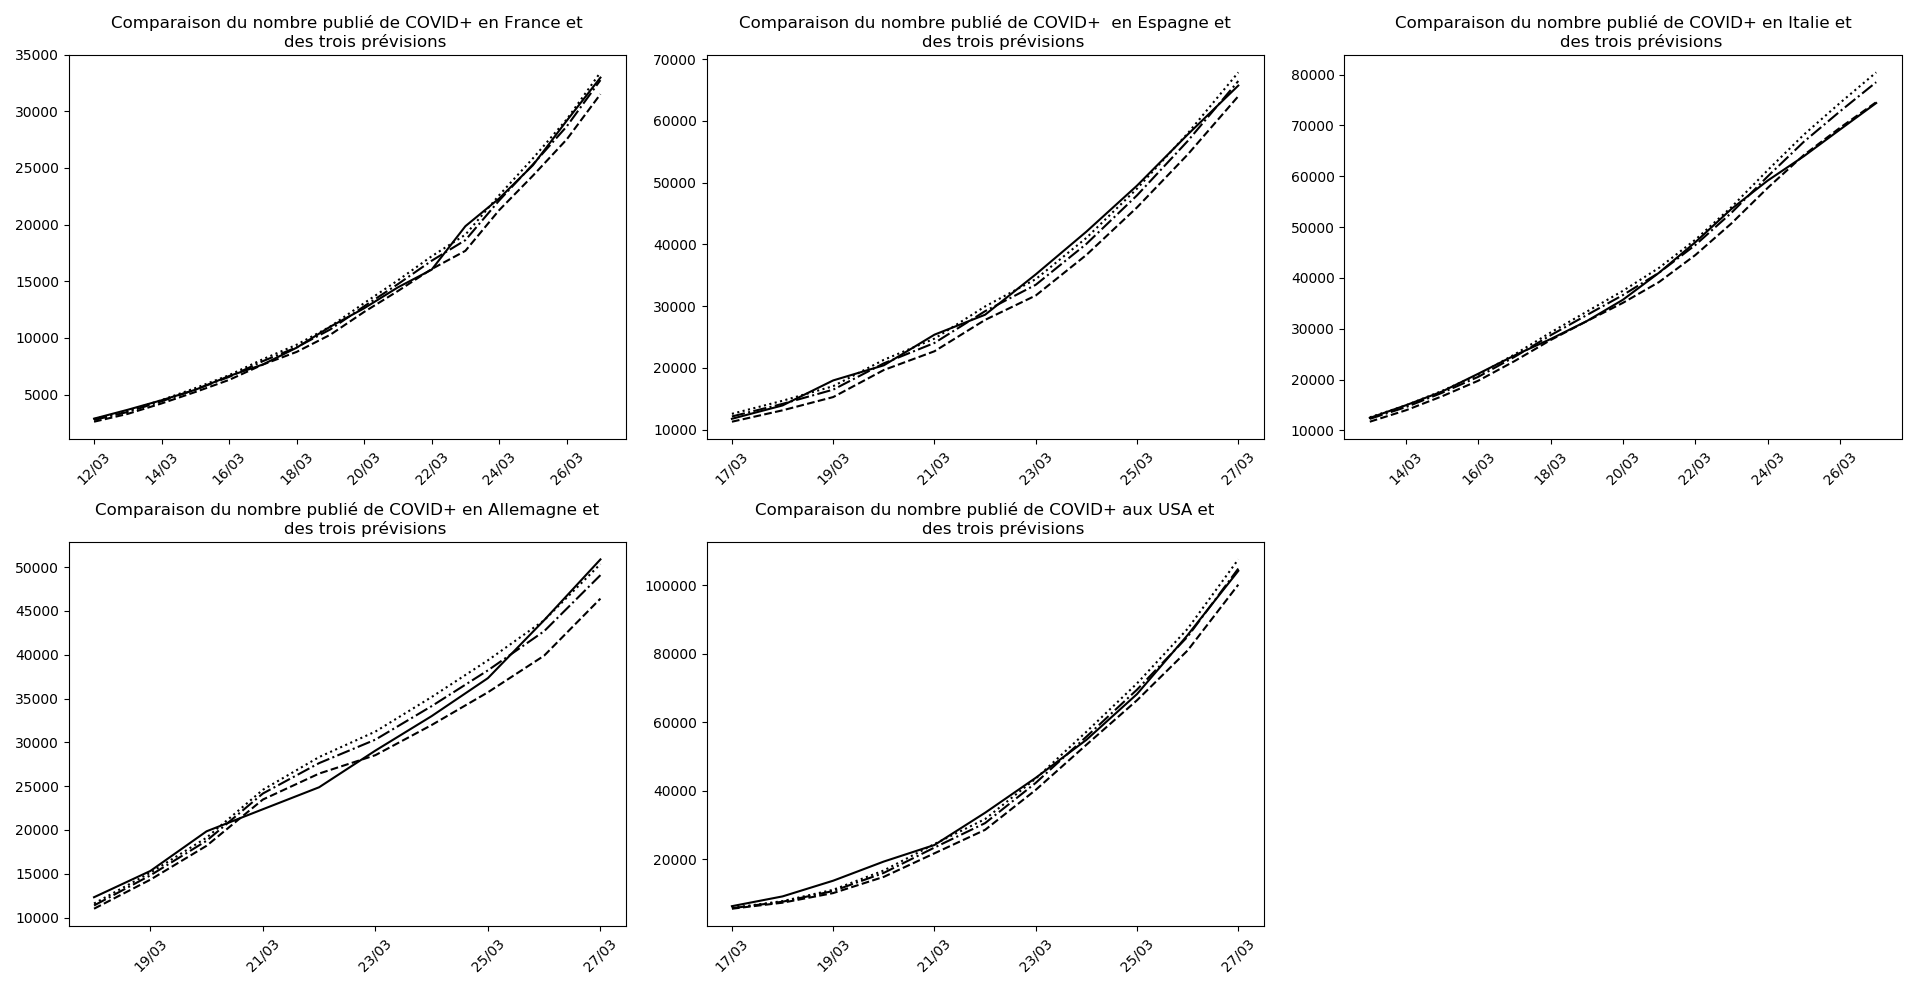
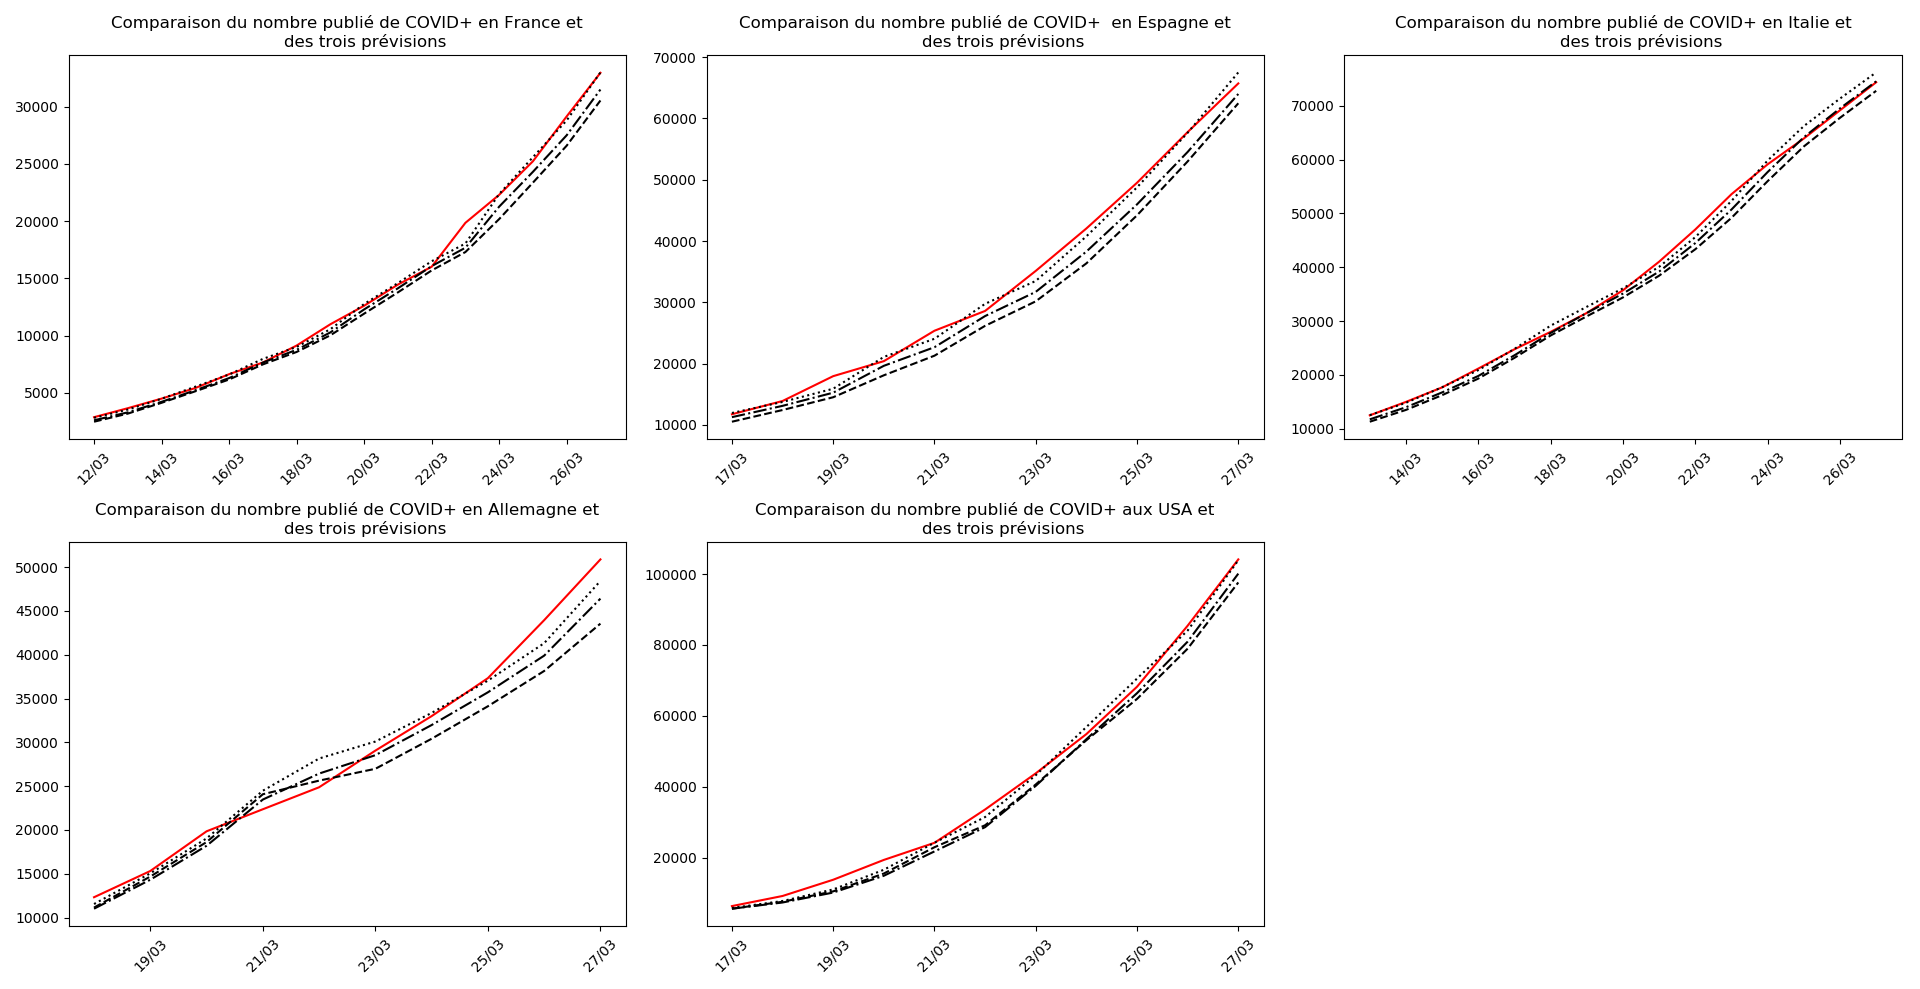
CoViD-19

diff --git a/_posts/2020-03-28-covid19.md b/_posts/2020-03-28-covid19.md
@@ -81,7 +81,7 @@ Le principe de l'algorithme est alors le suivant :
 - on pose $c_0=2\times\max\left(Y_i\right)_{1\leq i\leq n}$;
 - connaissant $c_0$, on calcule $a_0$ et $b_0$ en utilisant $(E_2)$ et $(E_3)$;
 - grâce aux valeurs de $a_0$ et $b_0$, on calcule $c_1$ en utilisant $(E_1)$;
-- on continue ainsi jusqu'à ce que $c_{j+1}-c_j$ soit, en valeur absolue, inférieur à une précision voulue;
+- on continue ainsi jusqu'à ce que $c_{j+1}-c_j$ soit inférieur à une précision voulue;
 - les valeurs $\left(a_{j+1};b_{j+1};c_{j+1}\right)$ sont alors les valeurs souhaitées.
 
 # Algorithme
@@ -155,7 +155,7 @@ def interpSigm2(data, fin, Inf=None, Sup=None,
     aM,bM,cM = tab[-1][:3]
     return ((am,bm,cm),(a,b,c),(aM,bM,cM))
 
-def interpSigm(data, fin, S0=0, mxS=1e6, err=1.5, prec=1e-3):
+def interpSigm(data, fin, S0=0, mxS=1e6, err=1.5, prec=1e-3,method = 1):
     """Calcule les paramètres (a,b,c) de la sigmoïde ainsi que les versions
     optimiste : (am,bm,cm)
     pessimiste : (aM,bM,cM)"""
@@ -179,10 +179,21 @@ def interpSigm(data, fin, S0=0, mxS=1e6, err=1.5, prec=1e-3):
     else:
         Y0 = np.log(somcum/(c-somcum))
         a,b = reglin(X,Y0,(somcum*(1-somcum/c))**2)
-    m,_,M = interpSigm2(data,fin,
+    if method:
+        am,bm,cm = a,b,c
+        c = cm*err
+        Y0 = np.log(somcum/(c-somcum))
+        a,b = reglin(X,Y0,(somcum*(1-somcum/c))**2)
+    
+        cM = c*err
+        Y0 = np.log(somcum/(cM-somcum))
+        aM,bM = reglin(X,Y0,(somcum*(1-somcum/cM))**2)
+        return ((am,bm,cm),(a,b,c),(aM,bM,cM))
+    else:
+        m,L,M = interpSigm2(data,fin,
                         Inf=max(np.max(somcum)+2,c/2), Sup=c*2,
                         S0=S0,mxS=mxS,err=err,nbInt=500)
-    return m,(a,b,c),M
+        return m,L,M
 
 def caracteristiques(a,b,c,d):
     """Calcule trois paramètres caractéristiques 
@@ -365,7 +376,7 @@ def evol_cas(dates, liste, somcum, debd, dt, typeDonnees, sbp = None, legend=Tru
 
 
 def repGraph(S0, debutDonnees, debutSimul, finSimul, typeDonnees, nouveaux,
-             err=1.5, prec=1e-3, typ=[], sbp=None, legend=True):
+             err=1.5, prec=1e-3, typ=[], sbp=None, legend=True, method=1):
     # S0 : nombre de cas constatés avant le début des données
     # debutDonnees : nombre de jours entre le 22 janvier 2020 et les debut
     # des données
@@ -385,7 +396,8 @@ def repGraph(S0, debutDonnees, debutSimul, finSimul, typeDonnees, nouveaux,
     for fin in range(debf,n+1):
         ((am,bm,cm),(a,b,c),(aM,bM,cM)) = interpSigm(nouveaux,fin,S0=S0,
                                                      mxS=7e7, err=1.5, 
-                                                     prec = 1e-5)
+                                                     prec = 1e-5,
+                                                     method = method)
         La.append(a)
         Lam.append(am)
         LaM.append(aM)
@@ -440,10 +452,10 @@ class covid():
         for k in self.datas:
             k[3] = dt
     
-    def repGraph(self, k, typ=[], err=1.5):
-        repGraph(*self.datas[k],typ=typ)
+    def repGraph(self, k, typ=[], err=1.5, method = 1):
+        repGraph(*self.datas[k],typ=typ, method = method)
     
-    def compare(self,typ, which=None, err=1.5):
+    def compare(self,typ, which=None, err=1.5, method = 1):
         fig = plt.figure()
         plt_set_fullscreen()
         fig.set_tight_layout(True)
@@ -456,7 +468,7 @@ class covid():
         a = p*100 + (n//p+(n%p>0))*10
         for k in range(len(which)):
             repGraph(*self.datas[which[k]], typ=[typ],sbp=a+k+1,legend=False,
-                     err = err)
+                     err = err, method = method)
 ```
 
 # Utilisation
